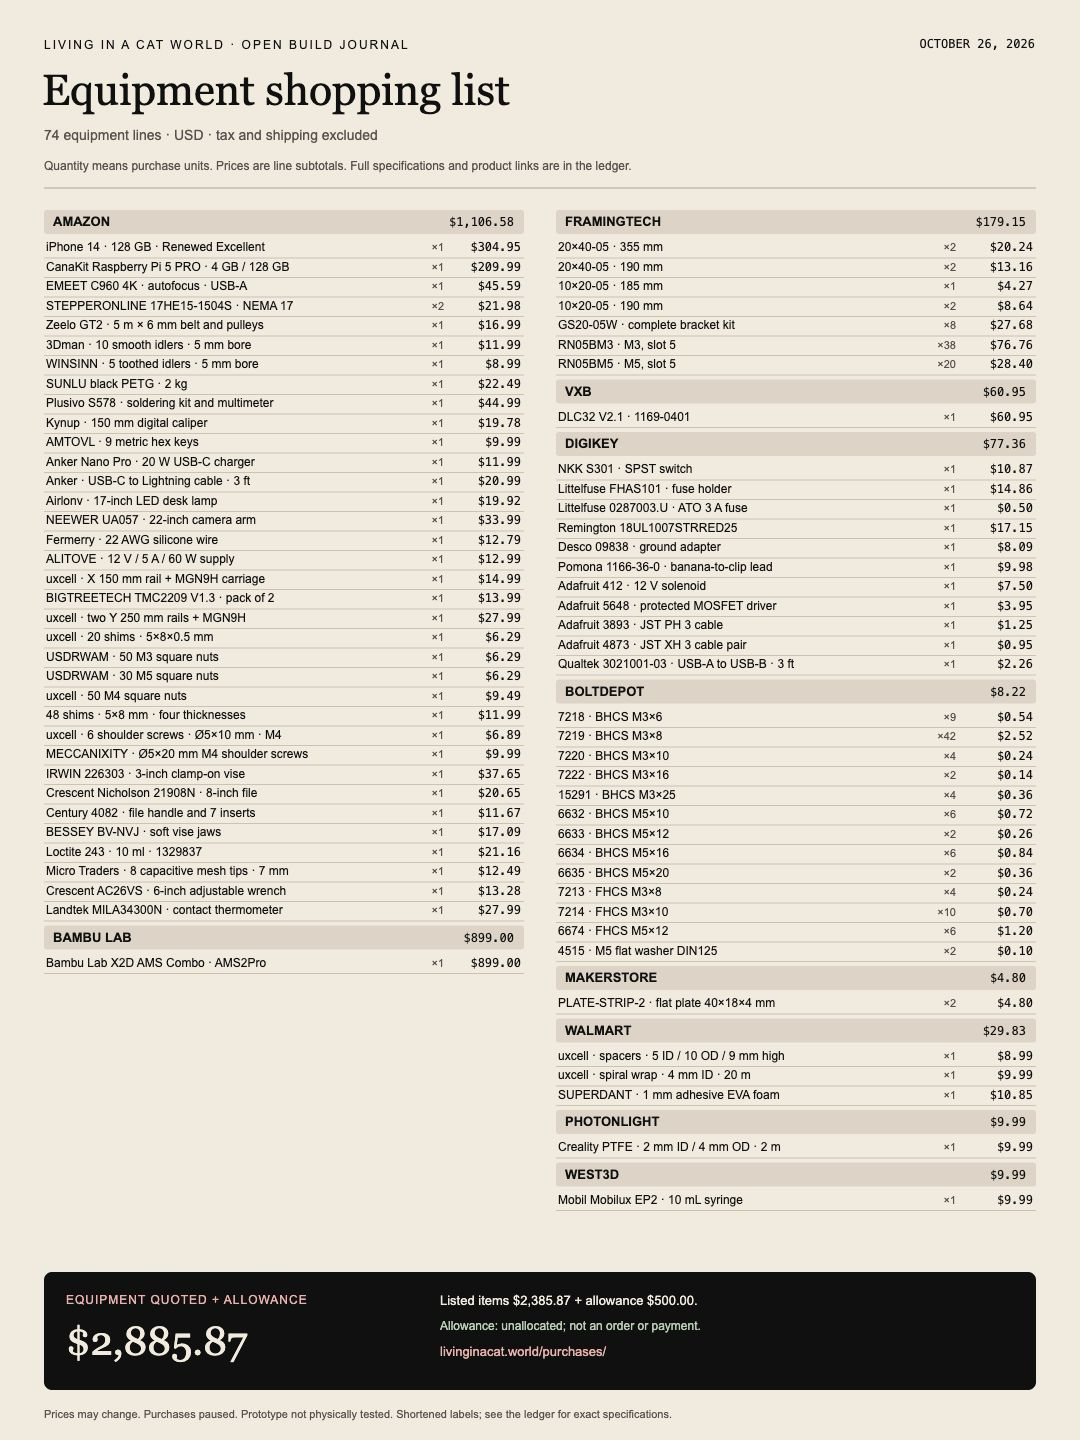
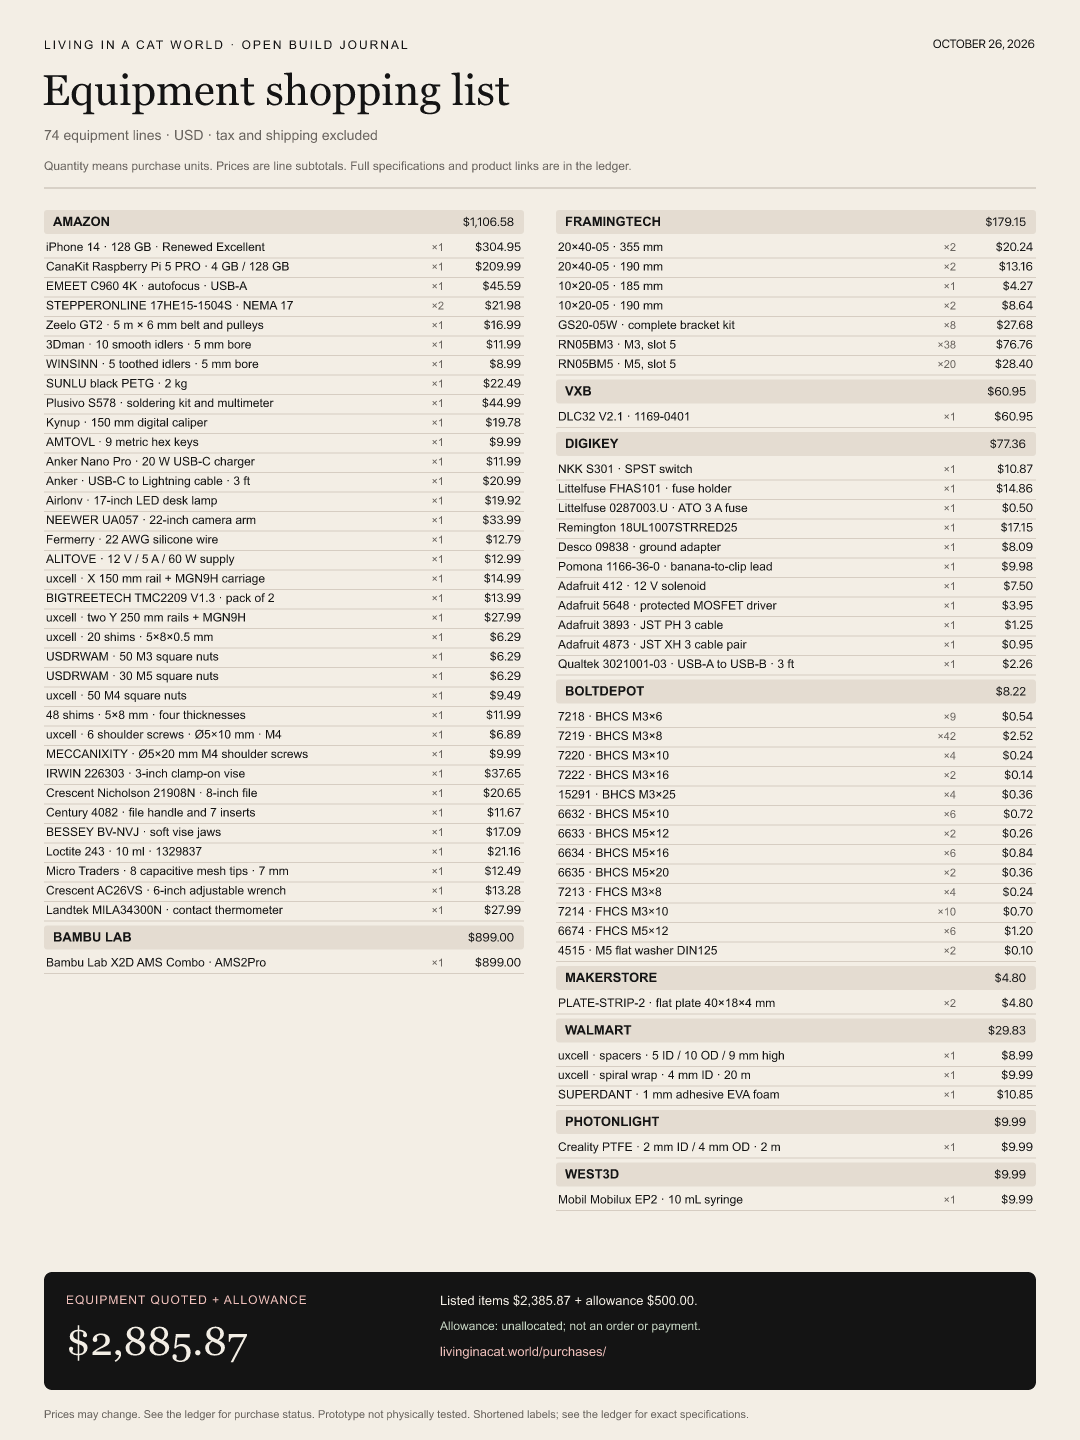
Resume purchasing and record the verified DigiKey cart

diff --git a/README.md b/README.md
@@ -2,7 +2,7 @@
 
 An open build journal about creating an AI that can perceive and act in the real world. The first project is a robot that physically uses an iPhone. Plans, decisions, purchases, shipments and hardware files are documented openly.
 
-**Website:** https://livinginacat.world · **Initial stage:** CAD prepared; no physical assembly or testing. Purchases paused.
+**Website:** https://livinginacat.world · **Initial stage:** CAD prepared; no physical assembly or testing. Purchases in progress, one store at a time.
 
 ## Contents
 

diff --git a/docs/PROJECT.md b/docs/PROJECT.md
@@ -1,6 +1,6 @@
 # living in a cat world · Project guide
 
-Updated: October 26, 2026. DIY prototype without physical assembly or testing. Purchases paused.
+Updated: October 26, 2026. DIY prototype without physical assembly or testing. Purchases resumed, one store at a time. See the current [purchase record](/purchases/) for confirmed orders and payment status.
 
 ## Goal
 
